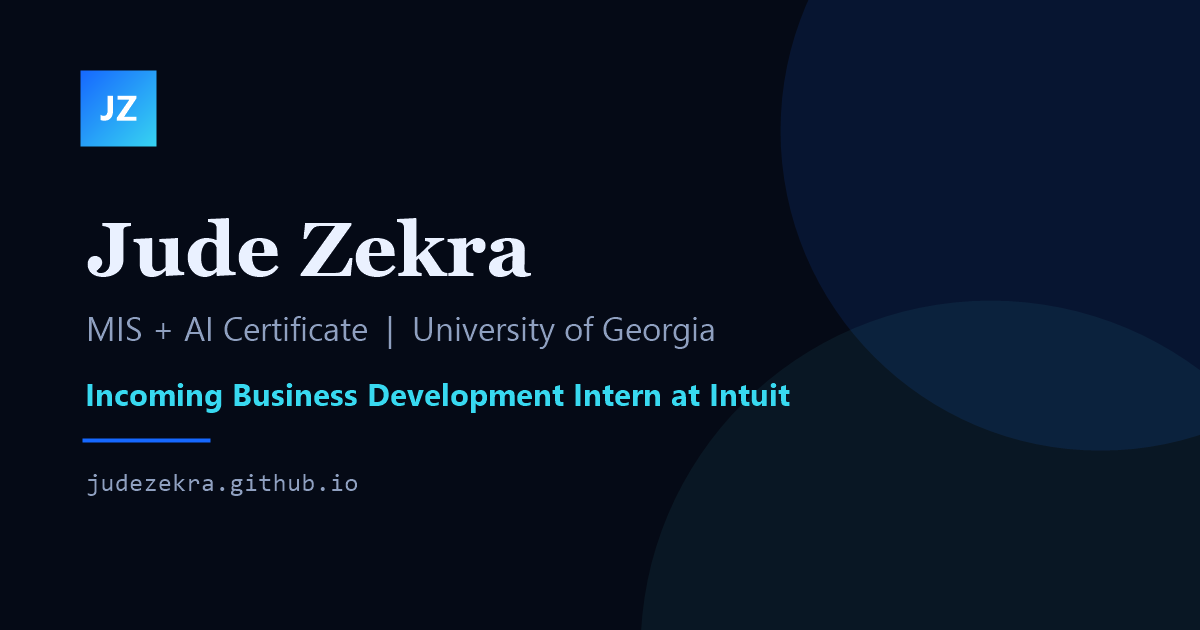
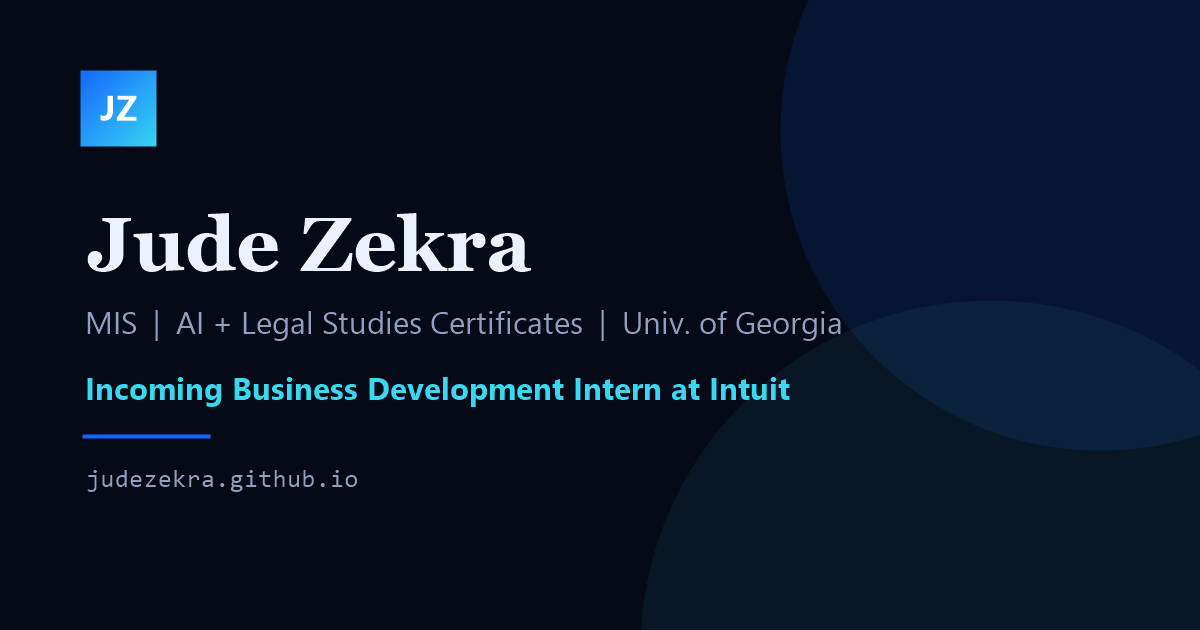
Add Legal Studies certificate across the site
Confirmed by Jude — his June résumé predates it. Added to the title, meta
and OG descriptions, JSON-LD (plus Privacy Law and Data Ethics in
knowsAbout), hero, about, and the résumé education block. Reframed the
about copy so the legal side reads as complementary to the technical work
rather than a footnote, and regenerated the social preview image.

diff --git a/index.html b/index.html
@@ -3,8 +3,8 @@
 <head>
   <meta charset="UTF-8">
   <meta name="viewport" content="width=device-width, initial-scale=1.0">
-  <title>Jude Zekra — MIS &amp; Applied AI | University of Georgia</title>
-  <meta name="description" content="Jude Zekra — Management Information Systems student at the University of Georgia with a certificate in Artificial Intelligence. Incoming Business Development Intern at Intuit.">
+  <title>Jude Zekra — MIS, Applied AI &amp; Legal Studies | University of Georgia</title>
+  <meta name="description" content="Jude Zekra — Management Information Systems student at the University of Georgia with certificates in Artificial Intelligence and Legal Studies. Incoming Business Development Intern at Intuit.">
 
   <link rel="icon" type="image/svg+xml" href="assets/img/favicon.svg">
   <link rel="icon" type="image/png" sizes="32x32" href="assets/img/favicon-32.png">
@@ -12,8 +12,8 @@
   <link rel="apple-touch-icon" href="assets/img/apple-touch-icon.png">
 
   <meta property="og:type" content="website">
-  <meta property="og:title" content="Jude Zekra — MIS &amp; Applied AI">
-  <meta property="og:description" content="MIS student at UGA with an AI certificate. Incoming Business Development Intern at Intuit.">
+  <meta property="og:title" content="Jude Zekra — MIS, Applied AI &amp; Legal Studies">
+  <meta property="og:description" content="MIS student at UGA with certificates in AI and Legal Studies. Incoming Business Development Intern at Intuit.">
   <meta property="og:image" content="https://judezekra.github.io/assets/img/og-image.png">
   <meta property="og:url" content="https://judezekra.github.io/">
   <meta name="twitter:card" content="summary_large_image">
@@ -27,13 +27,16 @@
     "url": "https://judezekra.github.io/",
     "email": "mailto:judezekra@yahoo.com",
     "jobTitle": "Management Information Systems Student",
-    "description": "MIS student at the University of Georgia with a certificate in Artificial Intelligence. Incoming Business Development Intern at Intuit.",
+    "description": "MIS student at the University of Georgia with certificates in Artificial Intelligence and Legal Studies. Incoming Business Development Intern at Intuit.",
     "address": { "@type": "PostalAddress", "addressLocality": "Athens", "addressRegion": "GA", "addressCountry": "US" },
     "affiliation": { "@type": "CollegeOrUniversity", "name": "University of Georgia" },
     "knowsLanguage": ["English", "Arabic"],
     "knowsAbout": [
       "Management Information Systems",
       "Applied Artificial Intelligence",
+      "Legal Studies",
+      "Privacy Law",
+      "Data Ethics",
       "Prompt Engineering",
       "Data Visualization",
       "Business Process Management",
@@ -97,11 +100,11 @@
 
           <h1 style="max-width:16ch;">
             <span class="hero-name">Jude Zekra</span>
-            <span style="font-size:var(--fs-hero); display:block;">Business systems, <span class="text-gradient">applied AI</span>, and the decisions between them.</span>
+            <span style="font-size:var(--fs-hero); display:block;">Business systems, <span class="text-gradient">applied AI</span>, and the rules around both.</span>
           </h1>
 
           <p style="font-size:var(--fs-body-lg); color:var(--ink-soft); max-width:56ch;">
-            MIS major and AI certificate student at the University of Georgia. I build practical tools with language models and translate messy information into something a team can actually act on.
+            MIS major at the University of Georgia with certificates in Artificial Intelligence and Legal Studies. I build practical tools with language models — and care as much about whether a system <em>should</em> do something as whether it can.
           </p>
 
           <div style="display:flex; gap:var(--space-4); flex-wrap:wrap; margin-top:var(--space-2);">
@@ -150,13 +153,13 @@
 
           <div data-reveal="right" style="display:flex; flex-direction:column; gap:var(--space-6);">
             <p style="font-size:var(--fs-body-lg);">
-              I'm studying Management Information Systems at UGA with a certificate in Artificial Intelligence, carrying a 3.87 GPA as a Presidential Scholar and Zell Miller Scholar.
+              I'm studying Management Information Systems at UGA with certificates in <strong>Artificial Intelligence</strong> and <strong>Legal Studies</strong>, carrying a 3.87 GPA as a Presidential Scholar and Zell Miller Scholar.
             </p>
             <p style="color:var(--ink-soft);">
               Most of what I enjoy sits where business questions meet technical ones: building an AI chatbot so students can actually find campus resources, designing a prompt pipeline to shortlist partner companies for my department, or working out whether a healthcare model can scale before anyone writes code. This summer I'm joining <strong>Intuit</strong> as a Business Development Intern.
             </p>
             <p style="color:var(--ink-soft);">
-              Outside of coursework I'm VP of Finance for Wishmakers on Campus, I referee soccer, and I'm genuinely interested in privacy law and data ethics — the questions about whether a system <em>should</em> do something, not just whether it can.
+              The legal side isn't a detour from the technical one. As more decisions get handed to models, someone has to think clearly about privacy, data ethics, and accountability — and it helps if that person also understands how the system was built. Outside of coursework I'm VP of Finance for Wishmakers on Campus and I referee soccer.
             </p>
 
             <div class="grid-12" style="margin-top:var(--space-4); gap:var(--space-8);">
@@ -173,9 +176,9 @@
                 </div>
               </div>
               <div class="span-4 skill-group" data-reveal="up">
-                <h3>Also</h3>
+                <h3>Policy &amp; Language</h3>
                 <div class="tag-row">
-                  <span class="tag">Prompt Engineering</span><span class="tag">Arabic — Native</span>
+                  <span class="tag">Privacy Law</span><span class="tag">Data Ethics</span><span class="tag">Prompt Engineering</span><span class="tag">Arabic — Native</span>
                 </div>
               </div>
             </div>

diff --git a/resume.html b/resume.html
@@ -4,7 +4,7 @@
   <meta charset="UTF-8">
   <meta name="viewport" content="width=device-width, initial-scale=1.0">
   <title>Résumé — Jude Zekra</title>
-  <meta name="description" content="Résumé for Jude Zekra — MIS student at the University of Georgia with a certificate in Artificial Intelligence. Incoming Business Development Intern at Intuit.">
+  <meta name="description" content="Résumé for Jude Zekra — MIS student at the University of Georgia with certificates in Artificial Intelligence and Legal Studies. Incoming Business Development Intern at Intuit.">
 
   <link rel="icon" type="image/svg+xml" href="assets/img/favicon.svg">
   <link rel="icon" type="image/png" sizes="32x32" href="assets/img/favicon-32.png">
@@ -13,7 +13,7 @@
 
   <meta property="og:type" content="profile">
   <meta property="og:title" content="Résumé — Jude Zekra">
-  <meta property="og:description" content="MIS student at UGA with an AI certificate. Incoming Business Development Intern at Intuit.">
+  <meta property="og:description" content="MIS student at UGA with certificates in AI and Legal Studies. Incoming Business Development Intern at Intuit.">
   <meta property="og:image" content="https://judezekra.github.io/assets/img/og-image.png">
   <meta name="twitter:card" content="summary_large_image">
   <link rel="canonical" href="https://judezekra.github.io/resume.html">
@@ -60,7 +60,7 @@
           <span class="section-label">Résumé</span>
           <h1 style="font-size:var(--fs-h1);">Jude Zekra</h1>
           <p style="color:var(--ink-soft); margin-top:var(--space-3);">
-            Athens, GA · BBA Management Information Systems &amp; Certificate in Artificial Intelligence, University of Georgia
+            Athens, GA · BBA Management Information Systems, with certificates in Artificial Intelligence and Legal Studies — University of Georgia
           </p>
           <div style="display:flex; gap:var(--space-4); margin-top:var(--space-6); flex-wrap:wrap;">
             <a href="mailto:judezekra@yahoo.com" class="btn btn-primary" data-magnetic="0.2">Email me <span class="btn-arrow">→</span></a>
@@ -77,7 +77,14 @@
               <p class="card-desc">Athens, GA · Jul 2024 – Present</p>
             </div>
             <div style="display:flex; flex-direction:column; gap:var(--space-4);">
-              <p>BBA in Management Information Systems, with a Certificate in Artificial Intelligence.</p>
+              <p>BBA in Management Information Systems.</p>
+              <div>
+                <div class="stat-label" style="margin-bottom:var(--space-2);">Certificates</div>
+                <div class="tag-row">
+                  <span class="tag">Artificial Intelligence</span>
+                  <span class="tag">Legal Studies</span>
+                </div>
+              </div>
               <div class="grid-12" style="gap:var(--space-6);">
                 <div class="span-4">
                   <div class="stat-value" style="font-size:1.75rem;">3.87</div>
